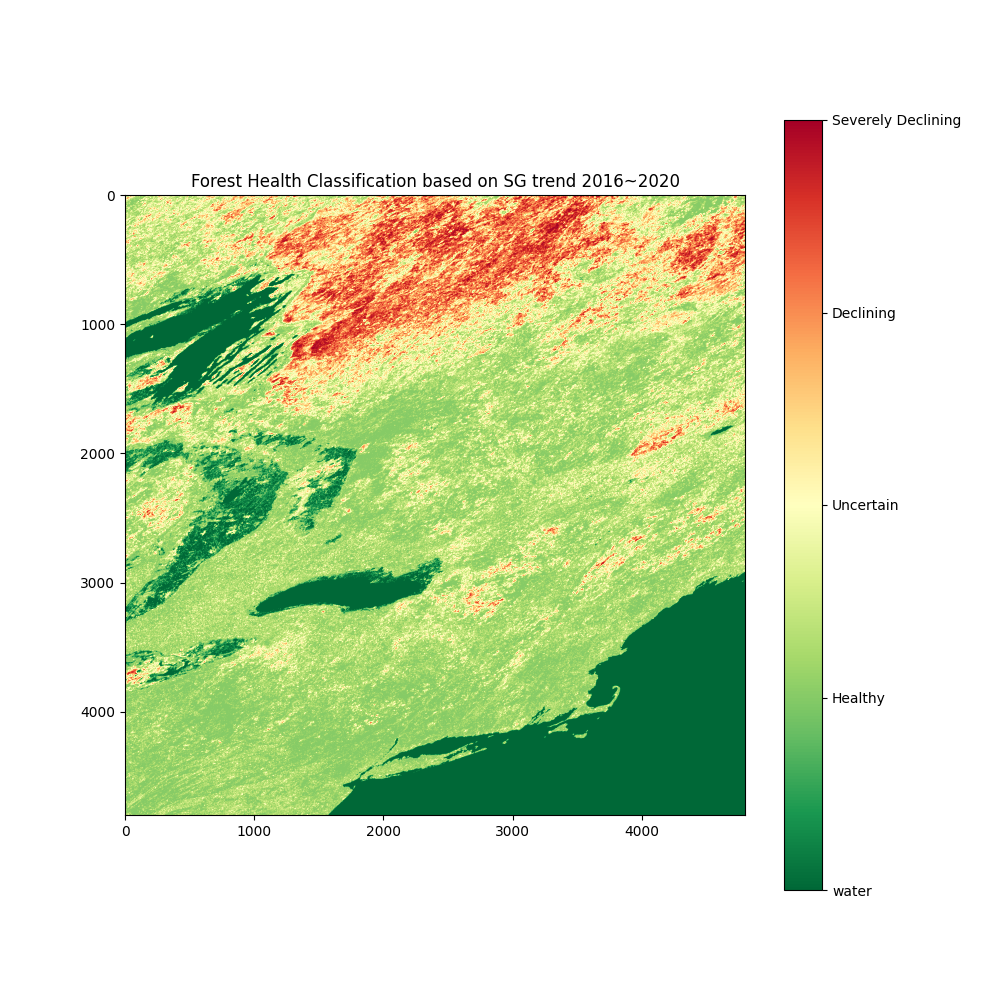
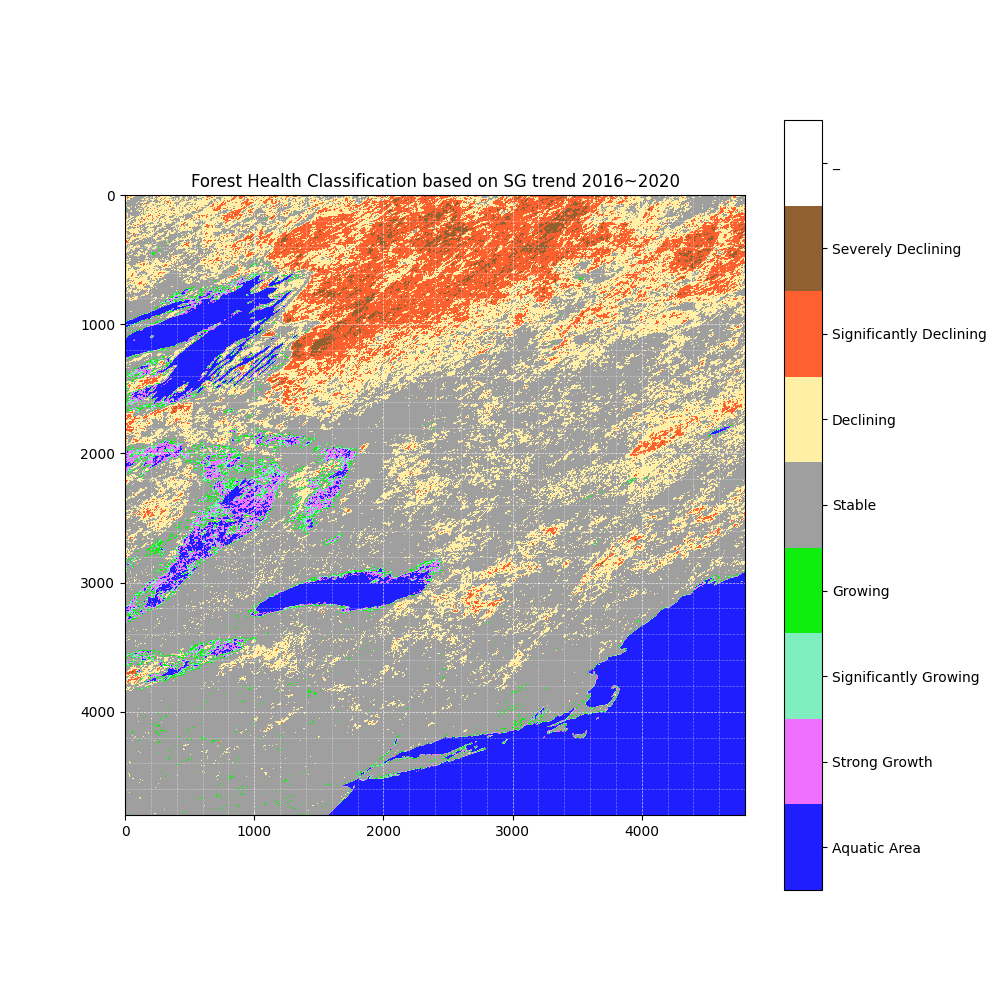
.

diff --git a/src/1.py b/src/1.py
@@ -10,6 +10,8 @@ from collections import defaultdict
 from scipy.stats import t
 from matplotlib.ticker import MultipleLocator
 from matplotlib.dates import YearLocator, MonthLocator
+from matplotlib.colors import ListedColormap
+from matplotlib.colors import ListedColormap, Normalize
 
 
 class Foo:
@@ -47,7 +49,7 @@ class Foo:
         return date.strftime('%Y-%m-%d')
 
     def __foo(self):
-        fig, ax = plt.figure(figsize=(10, 10))
+        fig, ax = plt.subplots(figsize=(10, 10))
         idx = 0
         for hdf_file in self.hdf_files:
             dt = self.__extract_date_from_filename(hdf_file)
@@ -177,22 +179,68 @@ class Foo:
     def classify_pixels(self, end_idx, start_year, end_year):
         year_range = "%s~%s" % (start_year, end_year)
 
+        is_forest_growth = self.slopes[:, :] >= 0
+        is_forest_decline = self.slopes[:, :] < 0
+
         # mark water region
         p_val = np.where(self.sg_values[end_idx, :, :] == 0, self.p_val_nan, self.p_values)
 
         self.pixel_classes = np.zeros_like(p_val, dtype=int)
-        self.pixel_classes[p_val <= 0.001] = 3
-        self.pixel_classes[(p_val > 0.001) & (p_val <= 0.01)] = 2
-        self.pixel_classes[(p_val > 0.01) & (p_val <= 0.05)] = 1
+
+        self.pixel_classes[is_forest_growth & (p_val > 0.0001) & (p_val <= 0.001)] = -3
+        self.pixel_classes[is_forest_decline & (p_val <= 0.001)] = 3
+
+        self.pixel_classes[is_forest_growth & (p_val > 0.001) & (p_val <= 0.01)] = -2
+        self.pixel_classes[is_forest_decline & (p_val > 0.001) & (p_val <= 0.01)] = 2
+
+        self.pixel_classes[is_forest_growth & (p_val > 0.01) & (p_val <= 0.05)] = -1
+        self.pixel_classes[is_forest_decline & (p_val > 0.01) & (p_val <= 0.05)] = 1
+
+        self.pixel_classes[p_val == self.p_val_nan] = -4
+
         self.pixel_classes[(p_val <= 1) & (p_val > 0.05)] = 0
-        self.pixel_classes[p_val == self.p_val_nan] = -1
-        np.save(f'sg_clf_training_data_{end_year}.npy', self.pixel_classes)
+        # np.save(f'sg_clf_training_data_{end_year}.npy', self.pixel_classes)
 
         fig, ax = plt.subplots(figsize=(10, 10))
-        cmap = plt.get_cmap('RdYlGn_r')
-        cax = ax.imshow(self.pixel_classes, cmap=cmap)
-        cbar = fig.colorbar(cax, ticks=[-1, 0, 1, 2, 3], orientation='vertical')
-        cbar.ax.set_yticklabels(['water', 'Healthy', 'Uncertain', 'Declining', 'Severely Declining'])
+        colors = ['#1E1EFF',  # Aquatic Area
+                  '#EF6FFF',  # Strong Growth
+                  '#7FEFBF',  # Significantly Growing
+                  '#0FEF0F',  # Growing
+                  '#9F9F9F',  # Stable
+                  '#FFF0A5',  # Declining
+                  '#FF6030',  # Significantly Declining
+                  '#8F6030',  # Severely Declining
+                  '#FFFFFF']  # empty
+        cmap_custom = ListedColormap(colors)
+        norm = Normalize(vmin=-4.5, vmax=4.5)
+        cax = ax.imshow(self.pixel_classes, cmap=cmap_custom, norm=norm)
+
+        major_ticks = np.arange(0, self.pixel_classes.shape[1] + 1, 1000)
+        ax.set_xticks(major_ticks)
+        ax.set_yticks(major_ticks)
+
+        minor_ticks = np.arange(0, self.pixel_classes.shape[1] + 1, 200)
+        ax.set_xticks(minor_ticks, minor=True)
+        ax.set_yticks(minor_ticks, minor=True)
+        ax.tick_params(axis='both', which='minor', size=0)
+
+        ax.grid(True, which='both', color='white', linewidth=0.5, linestyle='--')
+        ax.grid(which='minor', color='white', alpha=0.4)
+        ax.grid(which='major', color='white', alpha=0.8)
+
+        ticks_dict = {
+            4: "_",
+            3: "Severely Declining",
+            2: "Significantly Declining",
+            1: "Declining",
+            0: "Stable",
+            -1: "Growing",
+            -2: "Significantly Growing",
+            -3: "Strong Growth",
+            -4: "Aquatic Area"
+        }
+        cbar = fig.colorbar(cax, ticks=list(ticks_dict.keys()), orientation='vertical')
+        cbar.ax.set_yticklabels(ticks_dict.values())
         ax.set_title('Forest Health Classification based on SG trend %s' % year_range)
 
         pth = f"{self.rootpath}/clf"
@@ -203,146 +251,6 @@ class Foo:
         print(f"plot saved at {fp}")
         plt.close(fig)
         return
-
-    def plot_classification(self):
-        cmap = plt.get_cmap('RdYlGn_r')
-        fig, ax = plt.subplots(figsize=(10, 10))
-        cax = ax.imshow(self.pixel_classes, cmap=cmap)
-        cbar = fig.colorbar(cax, ticks=[0, 1, 2, 3], orientation='vertical')
-        cbar.ax.set_yticklabels(['Healthy', 'Uncertain', 'Declining', 'Severely Declining'])
-        ax.set_title('Forest Health Classification based on SG trend')
-        plt.show()
-
-        pth = f"{self.rootpath}/clf"
-        if not os.path.exists(pth):
-            os.makedirs(pth)
-        fp = f"%s/%s.png" % (pth, max(self.dates).strftime('%Y-%m-%d'))
-        plt.savefig(fp)
-        print(f"plot saved at {fp}")
-        plt.clf()
-
-    def plot_time_series_with_regression(self, x, y):
-        pth = f"{self.rootpath}/time_series"
-        if not os.path.exists(pth):
-            os.makedirs(pth)
-
-        df = pd.DataFrame(index=range(len(self.years)), columns=["dt", "ndvi"])
-        df["dt"] = self.years
-        df["ndvi"] = self.sg_values[:, x, y]
-
-        slope, intercept, r_value, p_value, std_err = linregress(df["dt"].astype(int), df["ndvi"])
-
-        plt.bar(df["dt"], df["ndvi"])
-        plt.plot(df["dt"], slope * df["dt"].astype(int) + intercept, color='red')
-
-        text = f"y = {slope:.2f}x + {intercept:.2f}"
-        plt.annotate(text, (0.05, 0.95), xycoords='axes fraction', fontsize=12, color="red")
-        plt.annotate(f"r_value = {r_value:.2f}", (0.05, 0.88), xycoords='axes fraction', fontsize=12)
-        plt.annotate(f"p_value = {p_value:.4f}", (0.05, 0.81), xycoords='axes fraction', fontsize=12)
-        plt.annotate(f"std_err = {std_err:.2f}", (0.05, 0.74), xycoords='axes fraction', fontsize=12)
-
-        plt.title("NDVI Time Series with Regression")
-        plt.xlabel("Year")
-        plt.ylabel("NDVI Value")
-
-        fp = f"%s/%4d_%4d_sg_ndvi.png" % (pth, x, y)
-        plt.savefig(fp)
-        print(f"plot saved at {fp}")
-        plt.clf()
-        pass
-
-
-class SGAna:
-    def __init__(self, ds):
-        self.r_values = None
-        self.std_errs = None
-        self.intercepts = None
-        self.pixel_classes = None
-        self.p_values = None
-        self.t_stats = None
-        self.slopes = None
-        self.sg_values = None
-        self.foo = ds
-        self.rootpath = ds.rootpath
-        self.dates = [datetime.strptime(s, '%Y-%m-%d') for s in ds.dates]
-        self.ndvi = ds.NDVI[:len(self.dates), :, :]
-
-        self.map_shape = (self.ndvi.shape[1], self.ndvi.shape[2])
-        self.years = None
-        self.p_val_nan = 10
-
-    def compute_sg(self):
-        year_sg = defaultdict(lambda: np.zeros(self.map_shape))
-        for i, date in enumerate(self.dates):
-            if 4 <= date.month <= 6:
-                ndvi_without_water = np.where(self.ndvi[i, :, :] == -3000, 0, self.ndvi[i, :, :])
-                year_sg[date.year] += ndvi_without_water
-        self.years = np.array(sorted(list(year_sg.keys())))
-        self.sg_values = np.array([year_sg[year] for year in self.years])
-        return
-
-    def linear_regress(self):
-        years_col = self.years[:, np.newaxis, np.newaxis]
-        x_mean = np.mean(years_col)
-        y_mean = np.mean(self.sg_values, axis=0)
-
-        num = np.sum((years_col - x_mean) * (self.sg_values - y_mean), axis=0)
-        den = np.sum((years_col - x_mean) ** 2)
-
-        # Calculate slope and intercept
-        self.slopes = num / den
-        self.intercepts = y_mean - self.slopes * x_mean
-
-        # Calculate covariance and variance for r_value calculation
-        covariance = np.sum((self.years[:, np.newaxis, np.newaxis] - x_mean) * (self.sg_values - y_mean), axis=0)
-        variance_x = np.sum((self.years - x_mean.squeeze()) ** 2)
-        variance_y = np.sum((self.sg_values - y_mean) ** 2, axis=0)
-        denominator = variance_x * variance_y
-        self.r_values = np.where(variance_y != 0, covariance / np.sqrt(denominator), 0)
-
-        # Calculate p_value and std_err
-        n = len(self.years)
-        t_stat = self.r_values * np.sqrt(n - 2) / np.sqrt(1 - self.r_values ** 2)
-
-        # p value
-        df = n - 2
-        self.p_values = t.sf(np.abs(t_stat), df) * 2
-
-        # std err
-        self.std_errs = np.sqrt((1 - self.r_values ** 2) * np.var(self.sg_values, axis=0) / (n - 2))
-        return
-
-    def classify_pixels(self):
-        cur_year = self.years[-1]  # mark water region
-        p_val = np.where(self.sg_values[0, :, :] == 1, self.p_val_nan, self.p_values[0, :, :])
-
-        self.pixel_classes = np.zeros_like(p_val, dtype=int)
-        self.pixel_classes[p_val <= 0.001] = 3
-        self.pixel_classes[(p_val > 0.001) & (p_val <= 0.01)] = 2
-        self.pixel_classes[(p_val > 0.01) & (p_val <= 0.05)] = 1
-        self.pixel_classes[(p_val <= 1) & (p_val > 0.05)] = 0
-        self.pixel_classes[p_val == self.p_val_nan] = -1
-
-        cmap = plt.get_cmap('RdYlGn_r')
-        fig, ax = plt.subplots(figsize=(10, 10))
-        cax = ax.imshow(self.pixel_classes, cmap=cmap)
-        cbar = fig.colorbar(cax, ticks=[0, 1, 2, 3], orientation='vertical')
-        cbar.ax.set_yticklabels(['Healthy', 'Uncertain', 'Declining', 'Severely Declining'])
-        ax.set_title('Forest Health Classification based on SG trend %s' % cur_year)
-
-        pth = f"{self.rootpath}/clf"
-        if not os.path.exists(pth):
-            os.makedirs(pth)
-        fp = f"%s/yearly_SG_trend_%s.png" % (pth, cur_year)
-        plt.savefig(fp)
-        print(f"plot saved at {fp}")
-        plt.clf()
-        return
-
-    def analyze(self):
-        self.compute_sg()
-        self.linear_regress()
-        self.classify_pixels()
 
     def plot_classification(self):
         cmap = plt.get_cmap('RdYlGn_r')
